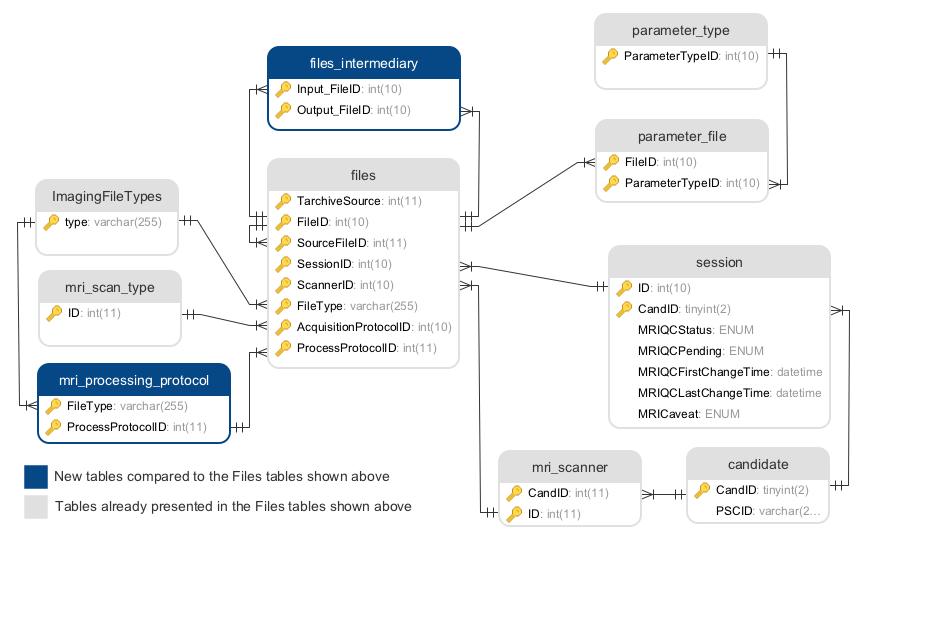
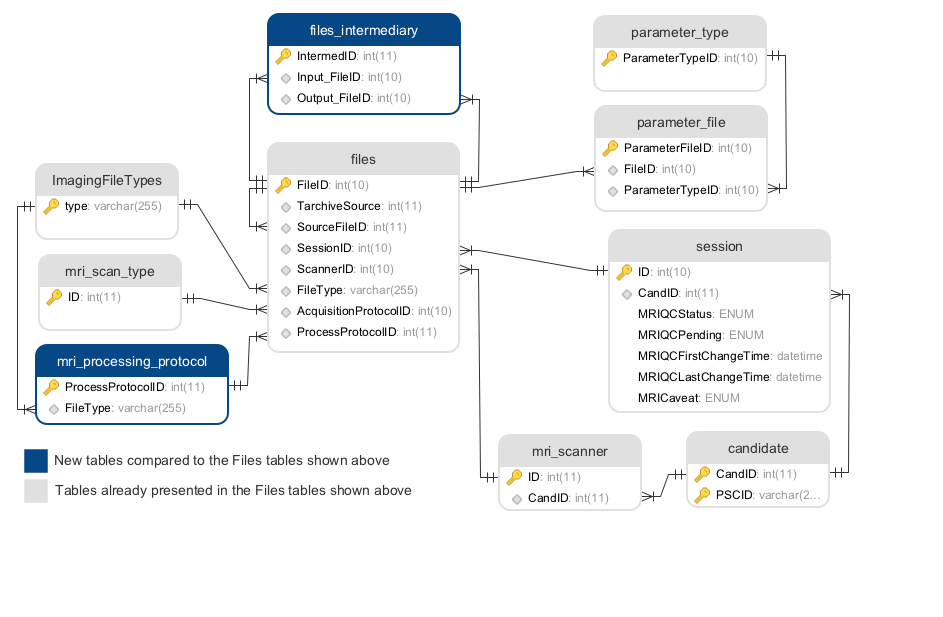
[Documentation] Database graph updates (#296)
* Modified the database graphs to differentiate foreign keys from primary keys in the table

* Removed the AppendixB-Glossary.md file and renamed FAQ to Troubleshooting guideline

diff --git a/docs/02-Install.md b/docs/02-Install.md
@@ -268,10 +268,10 @@ Under the section `Path`:
 
 Click 'Submit' at the end of the Configuration page to save any changes.
 
-#### 2.3.5 FAQ
+#### 2.3.5 Troubleshooting guideline
 
 For common errors and frequently asked questions, please refer to the [Appendix
-  A](AppendixA-FAQ.md).
+  A](AppendixA-Troubleshooting_guideline.md).
 
 
 ## 2.4 Pipeline flow

diff --git a/docs/AppendixA-Troubleshooting_guideline.md b/docs/AppendixA-Troubleshooting_guideline.md
@@ -1,4 +1,4 @@
-# Appendix A - FAQ
+# Appendix A - Troubleshooting guideline
 
 This section covers some of the most commonly encountered errors when running
 the insertion scripts. They are divided into 3 separate tables, with each table 
